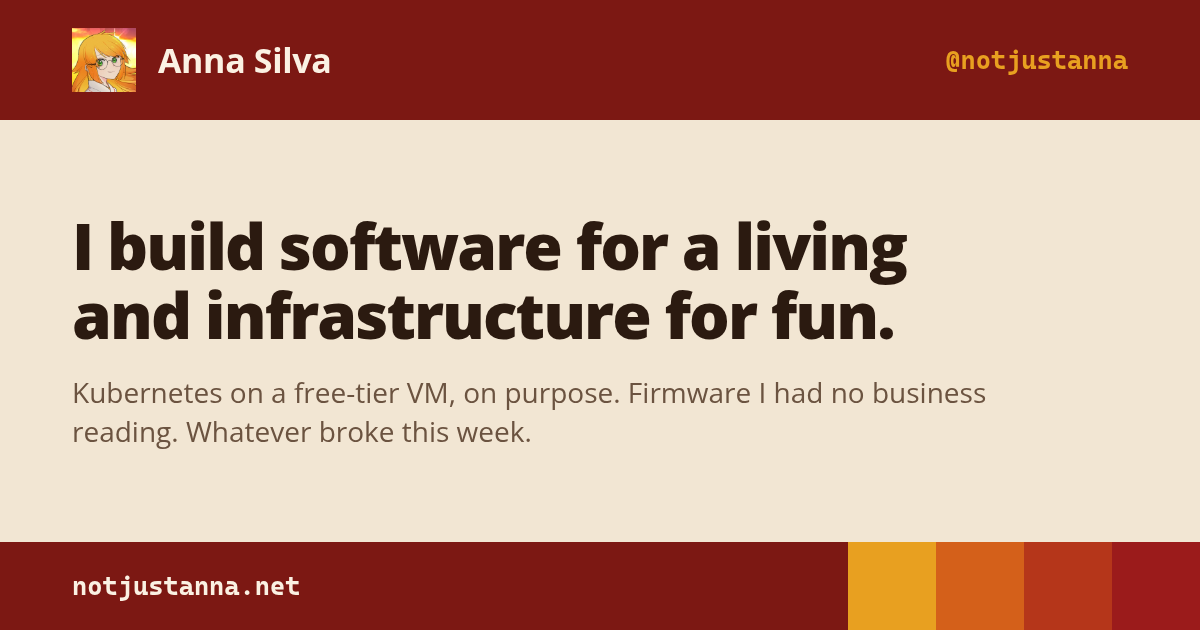
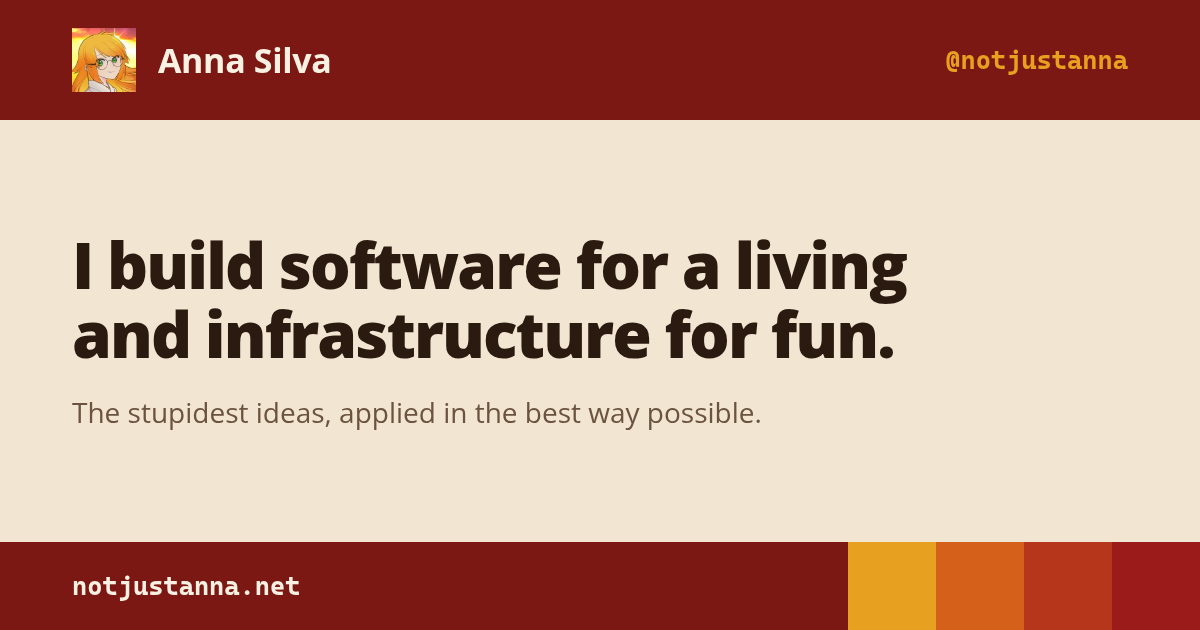
og: the stupidest ideas, applied in the best way possible

Changed region(s): [[0.0617, 0.3317, 0.7708, 0.573], [0.0617, 0.6032, 0.8325, 0.7238]]

diff --git a/src/consts.ts b/src/consts.ts
@@ -3,4 +3,4 @@
 
 export const SITE_TITLE = 'NotJustAnna.net';
 export const SITE_DESCRIPTION =
-  'I build software for a living and infrastructure for fun. Kubernetes on a free-tier VM, firmware I had no business reading, and whatever broke this week.';
+  'I build software for a living and infrastructure for fun. The stupidest ideas, applied in the best way possible.';
